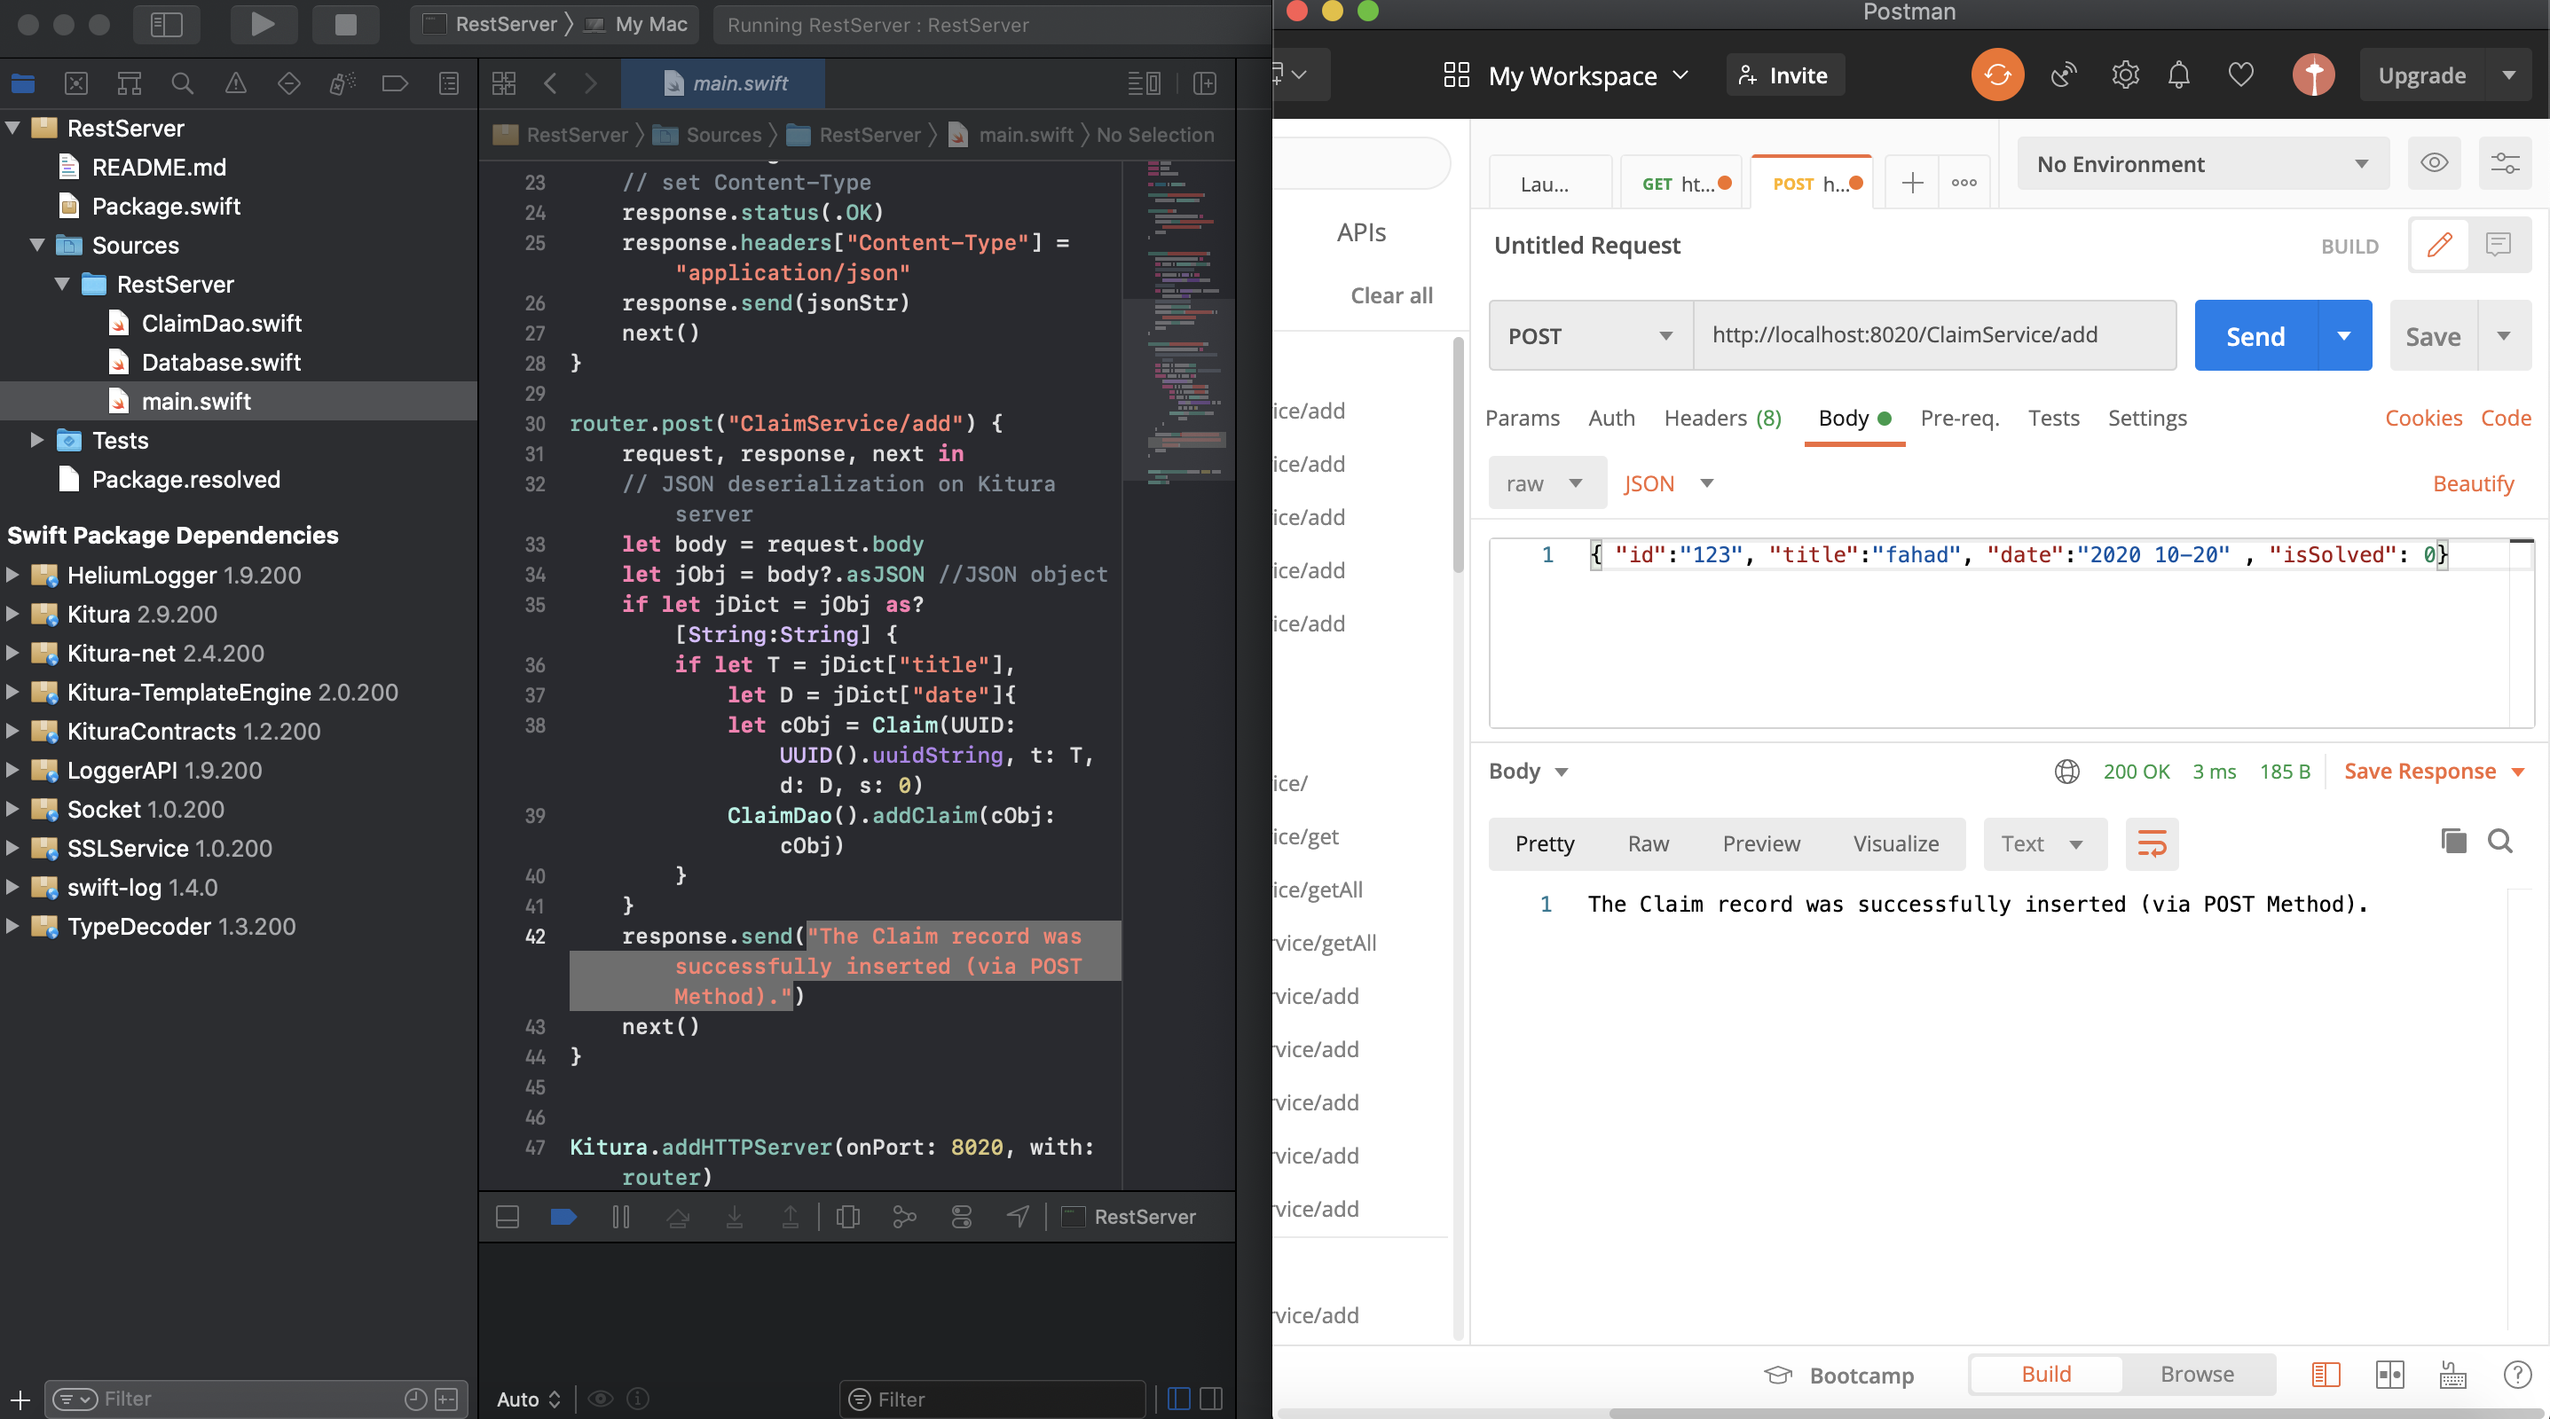
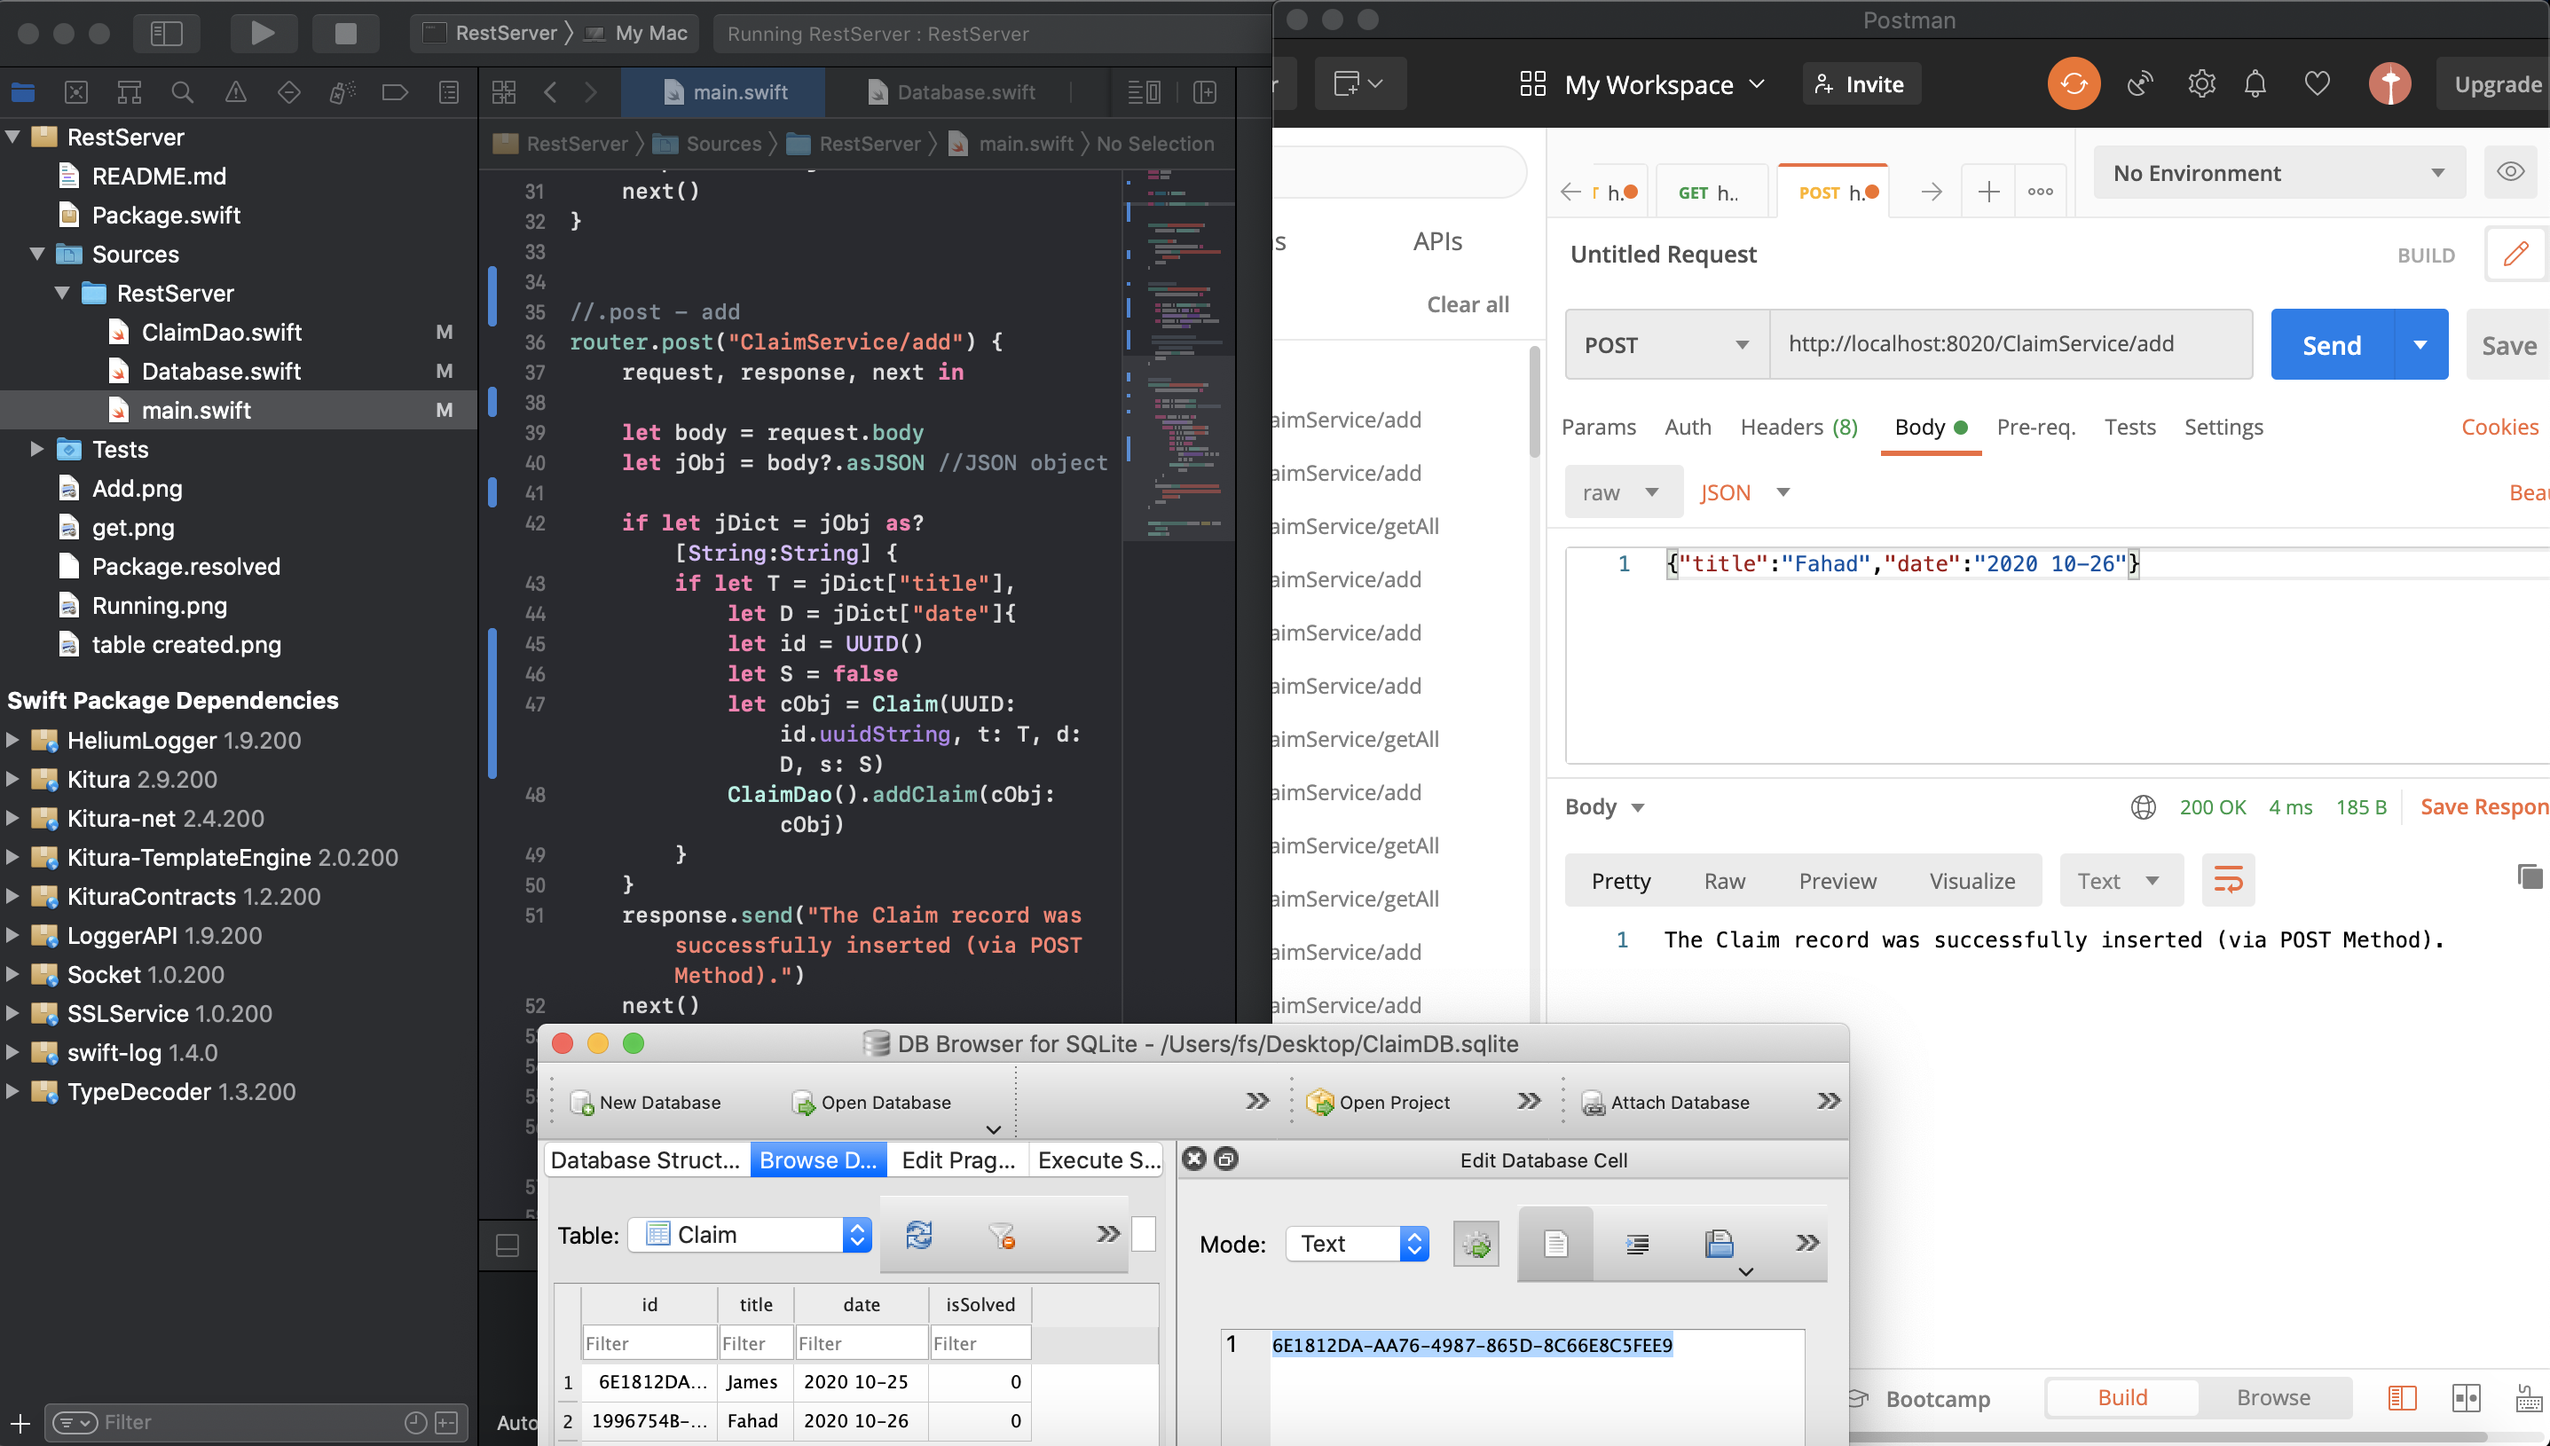
Done, Tested, Screenshots added.

diff --git a/Sources/RestServer/ClaimDao.swift b/Sources/RestServer/ClaimDao.swift
@@ -1,21 +1,18 @@
-//
-//  PersonDao.swift
+//  ClaimDao.swift
 //  RestServer
-//
 //  Created by Fahad Alswailem on 10/25/20.
-//
 
 import SQLite3
-
+import Cocoa
 
 struct Claim : Codable {
     var id : String
     var title : String?
     var date : String?
-    var isSolved : Int
+    var isSolved : Bool
     
 
-    init(UUID: String, t:String?, d : String?, s : Int) {
+    init(UUID: String, t:String?, d : String?, s : Bool) {
         id = UUID
         title = t
         date = d
@@ -24,41 +21,49 @@ struct Claim : Codable {
     
 }
 
+
 class ClaimDao {
     
     func addClaim(cObj : Claim) {
-        let sqlStmt = String(format:"insert into Claim (id, title, date, isSolved) values ('%@','%@', '%@', '%@')", (cObj.id), (cObj.title)!, (cObj.date)!, (cObj.isSolved))
-        // get database connection
+        
+        let sqlStmt = String(format:"insert into Claim (id, title, date, isSolved) values ('%@','%@', '%@', '0')", (cObj.id), (cObj.title)!, (cObj.date)!)
+
         let conn = Database.getInstance().getDbConnection()
-        // submit the insert sql statement
+
         if sqlite3_exec(conn, sqlStmt, nil, nil, nil) != SQLITE_OK {
             let errcode = sqlite3_errcode(conn)
             print("Failed to insert a Claim record due to error \(errcode)")
         }
-        // close the connection
         sqlite3_close(conn)
     }
     
+    
     func getAll() -> [Claim] {
-        var pList = [Claim]()
+        
+        var cList = [Claim]()
         var resultSet : OpaquePointer?
+        
         let sqlStr = "select id, title, date, isSolved from claim"
         let conn = Database.getInstance().getDbConnection()
+        
         if sqlite3_prepare_v2(conn, sqlStr, -1, &resultSet, nil) == SQLITE_OK {
             while(sqlite3_step(resultSet) == SQLITE_ROW) {
-                // Convert the record into a Claim object
-                // Unsafe_Pointer<CChar> Sqlite3
+
                 let ID_val = sqlite3_column_text(resultSet, 0)
                 let id = String(cString: ID_val!)
+              
                 let T_val = sqlite3_column_text(resultSet, 1)
                 let T = String(cString: T_val!)
+                
                 let D_val = sqlite3_column_text(resultSet, 2)
                 let D = String(cString: D_val!)
+               
                 let S_val = sqlite3_column_int(resultSet, 3)
-                let S = S_val
-                pList.append(Claim(UUID: id, t: T, d: D, s: Int(S)))
+                let S = Bool(truncating: S_val as NSNumber)
+               
+                cList.append(Claim(UUID: id, t: T, d: D, s: S))
             }
         }
-        return pList
+        return cList
     }
 }

diff --git a/Sources/RestServer/Database.swift b/Sources/RestServer/Database.swift
@@ -1,18 +1,17 @@
-//
 //  Database.swift
 //  RestServer
-//
 //  Created by Fahad Alswailem on 10/25/20.
-//
 
 import SQLite3
 import Foundation
 
 class Database {
+    
     static var dbObj : Database!
-    let dbname = "/Users/fs/Desktop/ClaimDB.sqlite"
-    var conn : OpaquePointer!
+    let dbname = "/Users/fs/Desktop/ClaimDB.sqlite" //DataBase Directory
+    var conn : OpaquePointer?
 
+    //Initialize DB
     init() {
         if sqlite3_open(dbname, &conn) == SQLITE_OK {
             initializeDB()
@@ -22,29 +21,35 @@ class Database {
             print("Open database failed due to error \(errcode)")
         }
     }
-
+    
+    //Create Table
     private func initializeDB() {
-        let sqlStmt = "create table if not exists Claim (id text, title text, date text, isSolved int)"
+        //SQL
+        let sqlStmt = "create table if not exists Claim (id int, title text, date text, isSolved int)"
         if sqlite3_exec(conn, sqlStmt, nil, nil, nil) != SQLITE_OK {
             let errcode = sqlite3_errcode(conn)
             print("Create table failed due to error \(errcode)")
         }
     }
-
+    
+    //Connect to DB
     func getDbConnection() -> OpaquePointer? {
         var conn : OpaquePointer?
+        
         if sqlite3_open(dbname, &conn) == SQLITE_OK {
             return conn
         } else {
             let errcode = sqlite3_errcode(conn)
-            let errmsg = sqlite3_errmsg(conn)
             print("Open database failed due to error \(errcode)")
-            print("Open database failed due to error \(errmsg!)")
-            let _ = String(format:"%@", errmsg!)
             
+            let errmsg = sqlite3_errmsg(conn)
+            print("Open database failed due to error \(errmsg!)")
+            
+            let _ = String(format:"%@", errmsg!)
         }
         return conn
     }
+    
     
     static func getInstance() -> Database {
         if dbObj == nil {

diff --git a/Sources/RestServer/main.swift b/Sources/RestServer/main.swift
@@ -1,41 +1,48 @@
+//  main.swift
+//  RestServer
+//  Created by Fahad Alswailem on 10/25/20.
+
 import Kitura
 import Cocoa
-import Foundation
 
 let router = Router()
+let dbObj = Database.getInstance()
 
 router.all("/ClaimService/add", middleware: BodyParser())
 
 router.get("/"){
     request, response, next in
-    response.send("Hello! Welcome to visit the service. ")
+    response.send("Hello! Welcome to the service.")
     next()
 }
 
-
+//.get - getAll
 router.get("ClaimService/getAll"){
     request, response, next in
-    let pList = ClaimDao().getAll()
-    // JSON Serialization
-    let jsonData : Data = try JSONEncoder().encode(pList)
-    //JSONArray
+    
+    let cList = ClaimDao().getAll()
+    let jsonData : Data = try JSONEncoder().encode(cList)
     let jsonStr = String(data: jsonData, encoding: .utf8)
-    // set Content-Type
-    response.status(.OK)
-    response.headers["Content-Type"] = "application/json"
+
+  //  response.status(.OK)
+  //  response.headers["Content-Type"] = "application/json"
     response.send(jsonStr)
     next()
 }
 
+//.post - add
 router.post("ClaimService/add") {
     request, response, next in
-    // JSON deserialization on Kitura server
+
     let body = request.body
     let jObj = body?.asJSON //JSON object
+    
     if let jDict = jObj as? [String:String] {
         if let T = jDict["title"],
             let D = jDict["date"]{
-            let cObj = Claim(UUID: UUID().uuidString, t: T, d: D, s: 0)
+            let id = UUID()
+            let S = false
+            let cObj = Claim(UUID: id.uuidString, t: T, d: D, s: S)
             ClaimDao().addClaim(cObj: cObj)
         }
     }
@@ -43,7 +50,5 @@ router.post("ClaimService/add") {
     next()
 }
 
-
 Kitura.addHTTPServer(onPort: 8020, with: router)
 Kitura.run()
-
